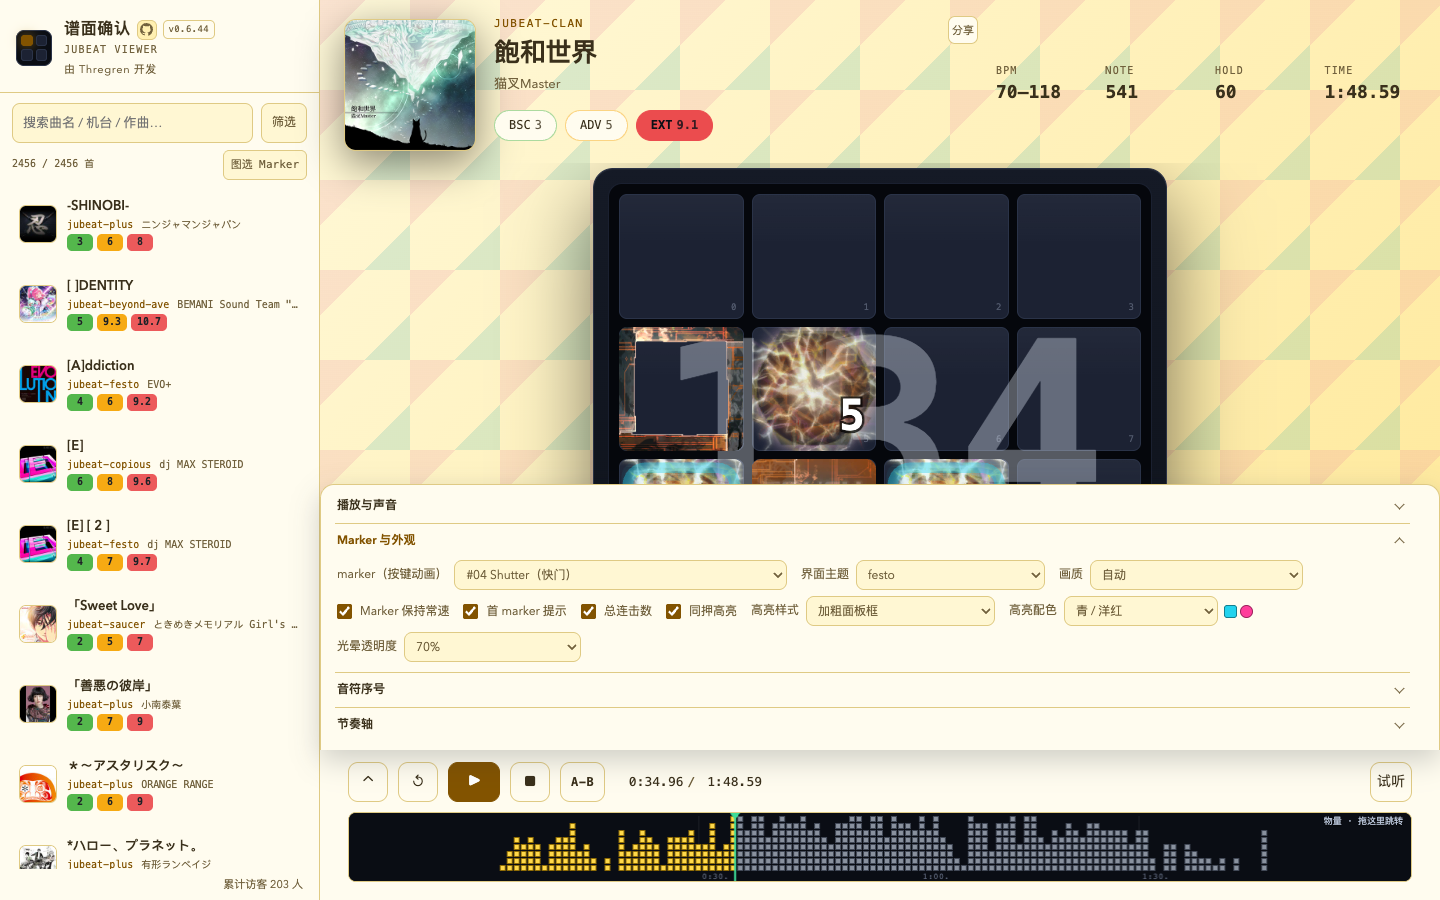
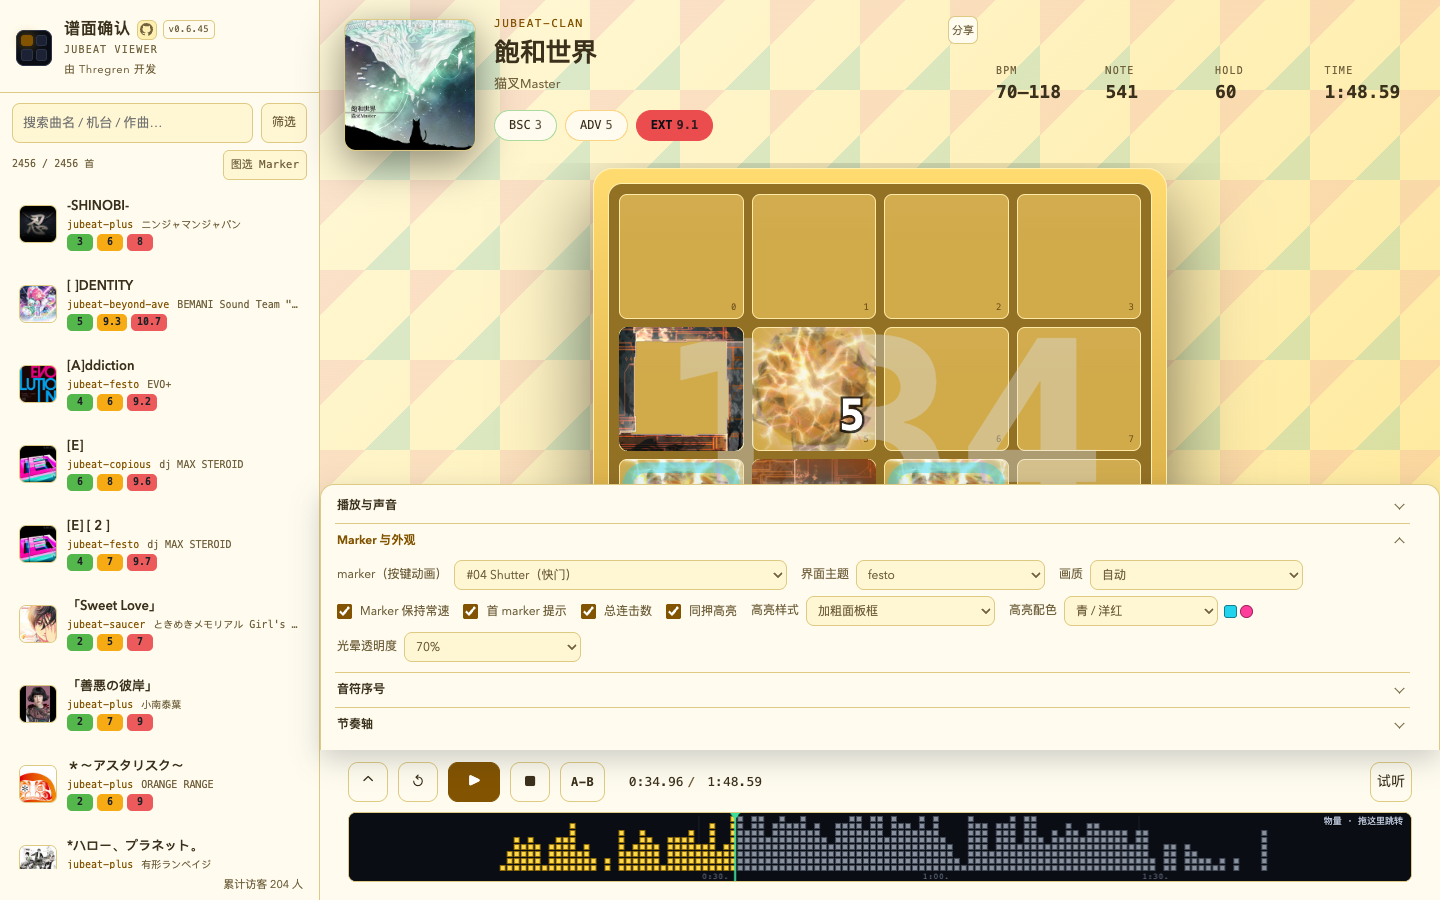
Update screenshots and release notes for v0.6.45

Changed region(s): [[0.4062, 0.1867, 0.8125, 0.56]]

diff --git a/README.md b/README.md
@@ -8,7 +8,7 @@
 
 - **找谱和看谱**：搜索曲名、版本、作曲者；按版本、长押和难度筛选排序；曲目列表按需渲染。
 - **Marker 与提示**：官方逐帧动画、单列图选、首 Marker「这里／开始」提示、同押面板框与双色高亮。
-- **界面主题**：切换 13 套按各版本特色重新设计的配色与图案，包括星空、涟漪、城市、热带植物、木纹和砖墙；记住上次选择。
+- **界面主题**：切换 13 套按各版本特色重新设计的配色与图案，包括星空、涟漪、城市、热带植物、木纹和砖墙，4×4 面板和边框也会随主题变色；记住上次选择。
 - **节奏可视化**：音符顺序数字、断句和节奏分组配色、长押轨迹、总连击、物量条和可细分的横向节奏轴。
 - **反复练习**：0.25×–2× 保持音调变速、声画偏移、A–B 段落循环、循环播放和多种按键音效。
 - **试听和分享**：独立原试听循环；歌曲分享页打开后自动定位歌曲和难度。
@@ -26,17 +26,17 @@
 
 直接打开 **[ub.thregren.world](https://ub.thregren.world/)** 即可使用。iPhone、iPad 和 Android 可通过浏览器的「添加到主屏幕／安装应用」使用 PWA。
 
-**[GitHub Release](https://github.com/Thregren/jubeat-chart-viewer/releases/latest)** 提供不含曲库的 v0.6.44 轻量程序；**[夸克网盘](https://pan.quark.cn/s/e9c12157e039)** 提供之前发布的客户端和独立完整曲库。
+**[GitHub Release](https://github.com/Thregren/jubeat-chart-viewer/releases/latest)** 提供不含曲库的 v0.6.45 轻量程序；**[夸克网盘](https://pan.quark.cn/s/e9c12157e039)** 提供之前发布的客户端和独立完整曲库。
 
 | 平台 | 下载 |
 |---|---|
-| Windows x64 | [ZIP](https://github.com/Thregren/jubeat-chart-viewer/releases/download/v0.6.44/jubeatViewer-0.6.44-win-x64.zip) |
-| Windows ARM64 | [ZIP](https://github.com/Thregren/jubeat-chart-viewer/releases/download/v0.6.44/jubeatViewer-0.6.44-win-arm64.zip) |
-| macOS Intel | [ZIP](https://github.com/Thregren/jubeat-chart-viewer/releases/download/v0.6.44/jubeatViewer-0.6.44-mac-x64.zip) |
-| macOS Apple 芯片 | [ZIP](https://github.com/Thregren/jubeat-chart-viewer/releases/download/v0.6.44/jubeatViewer-0.6.44-mac-arm64.zip) |
-| Linux x86_64 | [AppImage](https://github.com/Thregren/jubeat-chart-viewer/releases/download/v0.6.44/jubeatViewer-0.6.44-linux-x86_64.AppImage) |
-| Linux ARM64 | [AppImage](https://github.com/Thregren/jubeat-chart-viewer/releases/download/v0.6.44/jubeatViewer-0.6.44-linux-arm64.AppImage) |
-| Android 5.0+ | [APK](https://github.com/Thregren/jubeat-chart-viewer/releases/download/v0.6.44/jubeat-viewer-0.6.44-android-min.apk) |
+| Windows x64 | [ZIP](https://github.com/Thregren/jubeat-chart-viewer/releases/download/v0.6.45/jubeatViewer-0.6.45-win-x64.zip) |
+| Windows ARM64 | [ZIP](https://github.com/Thregren/jubeat-chart-viewer/releases/download/v0.6.45/jubeatViewer-0.6.45-win-arm64.zip) |
+| macOS Intel | [ZIP](https://github.com/Thregren/jubeat-chart-viewer/releases/download/v0.6.45/jubeatViewer-0.6.45-mac-x64.zip) |
+| macOS Apple 芯片 | [ZIP](https://github.com/Thregren/jubeat-chart-viewer/releases/download/v0.6.45/jubeatViewer-0.6.45-mac-arm64.zip) |
+| Linux x86_64 | [AppImage](https://github.com/Thregren/jubeat-chart-viewer/releases/download/v0.6.45/jubeatViewer-0.6.45-linux-x86_64.AppImage) |
+| Linux ARM64 | [AppImage](https://github.com/Thregren/jubeat-chart-viewer/releases/download/v0.6.45/jubeatViewer-0.6.45-linux-arm64.AppImage) |
+| Android 5.0+ | [APK](https://github.com/Thregren/jubeat-chart-viewer/releases/download/v0.6.45/jubeat-viewer-0.6.45-android-min.apk) |
 
 离线使用：
 
@@ -50,10 +50,10 @@ macOS 程序未做商业签名，首次打开可在 Finder 中右键「打开」
 
 ## 最近更新
 
-**v0.6.44**
+**v0.6.45**
 
 - 按各版本视觉特色重新设计 13 套主题，区分浅色和深色界面，补充气泡、星空、城市、热带植物、木纹和砖墙等元素。
-- 将「音乐魔方」主题移到列表末尾，并保留原有主题设置的兼容性；浅色主题同步调整控件和文字对比度。
+- 将「音乐魔方」主题移到列表末尾，并保留原有主题设置的兼容性；浅色主题同步调整控件和文字对比度；4×4 面板、间隙和外框随主题配色变化。
 - 更新桌面和手机截图，发布 Windows、macOS、Linux 和 Android 轻量客户端。
 
 **网页版 v0.6.43**

diff --git a/docs/release-v0.6.45.md b/docs/release-v0.6.45.md
@@ -1,9 +1,9 @@
-# v0.6.44
+# v0.6.45
 
-本版重新设计谱面查看器的 13 套界面主题，并更新桌面和手机截图。
+本版重新设计谱面查看器的 13 套界面主题，让 4×4 面板及边框随主题改变颜色，并更新桌面和手机截图。
 
 - 按版本区分主色、明暗和图形：包括 ripples 涟漪、knit 编织线、copious 深蓝星空、saucer 与 saucer fulfill 的黑白界面、clan 四街区色、festo 热带色彩、Ave. 木纹和 beyond the Ave. 砖墙。
-- 「音乐魔方」主题移至列表末尾，兼容已保存的主题设置；浅色主题的控件、歌曲选中状态和文字对比度同步调整。
+- 「音乐魔方」主题移至列表末尾，兼容已保存的主题设置；浅色主题的控件、歌曲选中状态和文字对比度同步调整；每套主题分别配置面板、边框和间隙颜色。
 - 包含 v0.6.43 的 Marker、音频加载、访客统计和资源管理修复，详见 [网页版更新说明](https://github.com/Thregren/jubeat-chart-viewer/blob/master/docs/web-v0.6.43.md)。
 
 提供 Windows、macOS、Linux 的 x64/ARM64 六份轻量客户端和 Android APK。安装包不包含曲库；可从 [夸克网盘](https://pan.quark.cn/s/e9c12157e039) 获取现有的独立完整曲库并导入。Android APK 与上一发布版使用相同签名，可覆盖升级。
